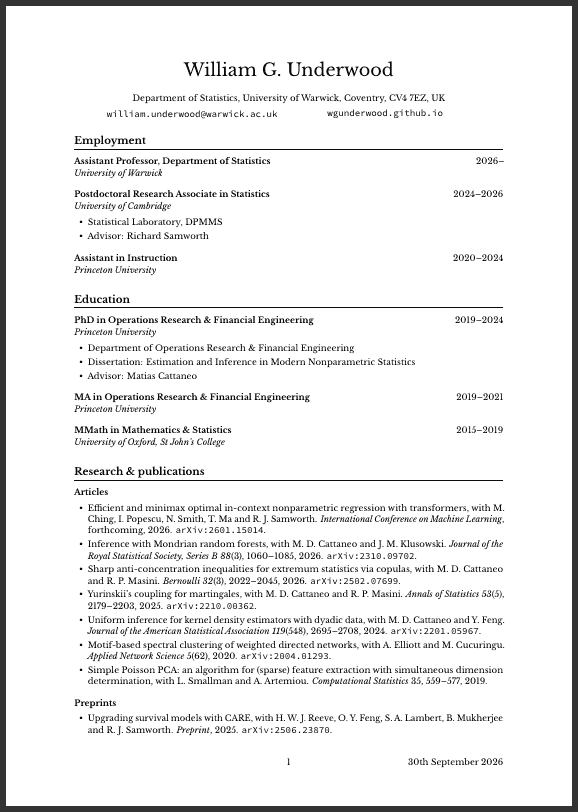
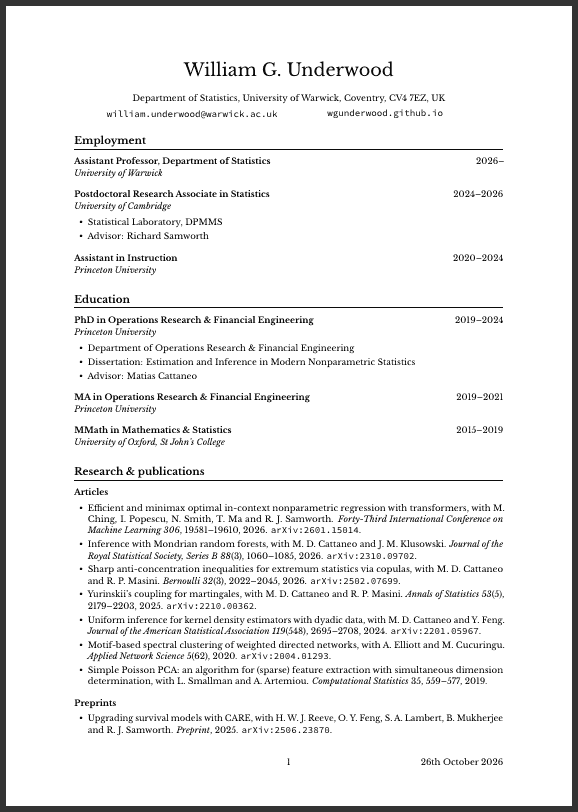
ICML paper

Changed region(s): [[0.1557, 0.6158, 0.872, 0.6773], [0.7163, 0.9236, 0.8097, 0.9544]]

diff --git a/WGUnderwood.tex b/WGUnderwood.tex
@@ -75,8 +75,8 @@
     nonparametric regression with transformers,
     with M.\ Ching, I.\ Popescu, N.\ Smith,
     T.\ Ma and R.\ J.\ Samworth.
-    \emph{International Conference on Machine Learning},
-    forthcoming, 2026.
+    \emph{Forty-Third International Conference on Machine Learning}
+    \emph{306}, 19581--19610, 2026.
     \arxiv{2601.15014}.
 
   \item Inference with Mondrian random forests,
